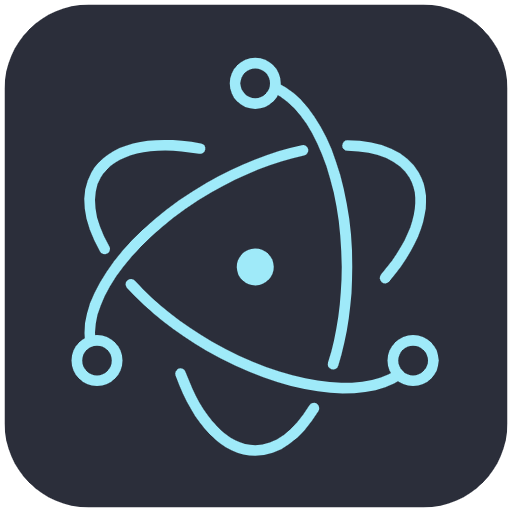
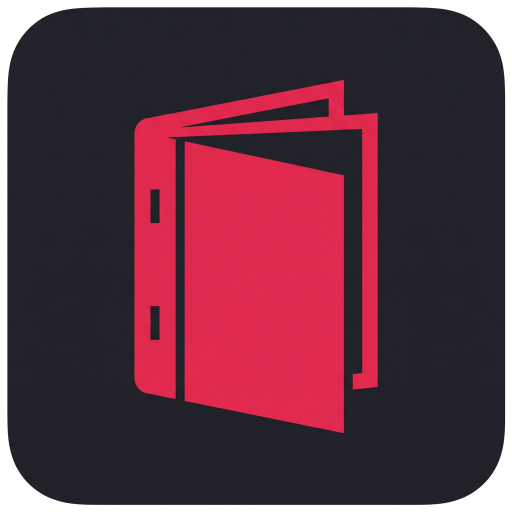
Rebrand Doujin Downloader to Kopibon
- Rename npm package, appId, desktopName, productName and executables
- Move the data directory to ~/.config/kopibon (KOPIBON_DATA_DIR env var)
- Update the ComicInfo Notes tag, update feed, docs and CI repo references
- Regenerate package-lock.json and THIRD-PARTY-NOTICES.md
- Replace the app icons with the Kopibon mark

diff --git a/src/main/index.ts b/src/main/index.ts
@@ -27,7 +27,7 @@ function createWindow(): void {
     minHeight: 600,
     show: false,
     autoHideMenuBar: true,
-    title: 'Doujin Downloader',
+    title: 'Kopibon',
     ...(process.platform === 'linux' ? { icon } : {}),
     webPreferences: {
       preload: join(__dirname, '../preload/index.js'),
@@ -87,7 +87,7 @@ function createWindow(): void {
 }
 
 app.whenReady().then(async () => {
-  electronApp.setAppUserModelId('com.en7ity.doujin-downloader')
+  electronApp.setAppUserModelId('com.en7ity.kopibon')
 
   // ─── Data directory ──────────────────────────────────────────────────
   //
@@ -98,7 +98,7 @@ app.whenReady().then(async () => {
   // .config) — giving every worker its own separate, empty database. Must run
   // before initDatabase() and before any worker is spawned.
 
-  process.env.DOUJIN_DATA_DIR = app.getPath('userData')
+  process.env.KOPIBON_DATA_DIR = app.getPath('userData')
 
   // ─── Logger ──────────────────────────────────────────────────────────
 

diff --git a/src/main/db/connection.ts b/src/main/db/connection.ts
@@ -11,12 +11,12 @@ let _dbPath: string | null = null
 function resolveDbDir(): string {
   if (_dbDir) return _dbDir
 
-  // The main process sets DOUJIN_DATA_DIR to app.getPath('userData') at
+  // The main process sets KOPIBON_DATA_DIR to app.getPath('userData') at
   // startup, and worker threads inherit it. This keeps every thread reading
   // the same database. The homedir fallback below would diverge from
   // Electron's userData on Windows (AppData vs .config) and silently give
   // each worker its own empty database, which is why it is last resort only.
-  const fromEnv = process.env.DOUJIN_DATA_DIR
+  const fromEnv = process.env.KOPIBON_DATA_DIR
   if (fromEnv) {
     _dbDir = fromEnv
     _dbPath = join(fromEnv, 'db.sqlite')
@@ -38,7 +38,7 @@ function resolveDbDir(): string {
   } catch {
     /* not in Electron context */
   }
-  _dbDir = join(homedir(), '.config', 'doujin-downloader')
+  _dbDir = join(homedir(), '.config', 'kopibon')
   _dbPath = join(_dbDir, 'db.sqlite')
   return _dbDir
 }

diff --git a/src/main/services/library-scanner.worker.ts b/src/main/services/library-scanner.worker.ts
@@ -68,10 +68,10 @@ interface PdfMetadata {
 const NHENTAI_ID_REGEX = /nhentai:(\d+)/i
 const FILENAME_ID_REGEX = /\[nhentai-(\d+)\]/
 const PROGRESS_INTERVAL = 1
-// The main process sets DOUJIN_DATA_DIR to app.getPath('userData') and workers
+// The main process sets KOPIBON_DATA_DIR to app.getPath('userData') and workers
 // inherit it; without it the homedir fallback would diverge from Electron's
 // userData on Windows (AppData vs .config).
-const DATA_DIR = process.env.DOUJIN_DATA_DIR || join(homedir(), '.config', 'doujin-downloader')
+const DATA_DIR = process.env.KOPIBON_DATA_DIR || join(homedir(), '.config', 'kopibon')
 const LOG_DIR = join(DATA_DIR, 'logs')
 
 // ─── State ───────────────────────────────────────────────────────────────────

diff --git a/src/main/services/download-manager.ts b/src/main/services/download-manager.ts
@@ -96,13 +96,13 @@ interface ActiveDownload {
  * on Windows, previously sending everything to C:\tmp).
  */
 function imageDownloadRoot(): string {
-  const base = app?.getPath ? app.getPath('userData') : join(process.cwd(), '.doujin-downloader')
+  const base = app?.getPath ? app.getPath('userData') : join(process.cwd(), '.kopibon')
   return join(base, 'download-tmp')
 }
 
 /** Persistent thumbnail cache — must outlive reboots, so not in os.tmpdir(). */
 function thumbnailRoot(): string {
-  const base = app?.getPath ? app.getPath('userData') : join(process.cwd(), '.doujin-downloader')
+  const base = app?.getPath ? app.getPath('userData') : join(process.cwd(), '.kopibon')
   return join(base, 'thumbnails')
 }
 

diff --git a/src/renderer/index.html b/src/renderer/index.html
@@ -2,7 +2,7 @@
 <html>
   <head>
     <meta charset="UTF-8" />
-    <title>Doujin Downloader</title>
+    <title>Kopibon</title>
     <meta
       http-equiv="Content-Security-Policy"
       content="default-src 'self'; script-src 'self'; style-src 'self' 'unsafe-inline'; img-src 'self' data: https:; connect-src 'self' https://nhentai.net https://*.nhentai.net ws://localhost:* http://localhost:*; font-src 'self' data:;"

diff --git a/src/main/services/logger.ts b/src/main/services/logger.ts
@@ -1,5 +1,5 @@
 /**
- * Core logger for the Doujin Downloader app.
+ * Core logger for the Kopibon app.
  *
  * Design (§1):
  * - Levels: error, warn, info, debug. Configurable, default 'info'.

diff --git a/resources/metadata-templates/README.md b/resources/metadata-templates/README.md
@@ -18,8 +18,8 @@ There are two copies:
 - **The shipped defaults**: next to the application, never written to.
 - **Your copy**: under the app's user data directory, in `metadata-templates/`.
   This is the one the app reads and the one to edit.
-  - Linux: `~/.config/doujin-downloader/metadata-templates/`
-  - Windows: `%APPDATA%\doujin-downloader\metadata-templates\`
+  - Linux: `~/.config/kopibon/metadata-templates/`
+  - Windows: `%APPDATA%\kopibon\metadata-templates\`
 
 Your copy is created from the defaults the first time the app starts, and is
 never overwritten afterwards. **To restore a default, delete your copy of that

diff --git a/docs/reference/metadata-formats.md b/docs/reference/metadata-formats.md
@@ -27,7 +27,7 @@ notes:
 | `Tags` | nhentai `tag`-type tags | Separate from Genre |
 | `Characters` | Characters | |
 | `Web` | nhentai gallery URL | `https://nhentai.net/g/{id}` |
-| `Notes` | "Tagged by Doujin Downloader" | Carries the gallery ID |
+| `Notes` | "Tagged by Kopibon" | Carries the gallery ID |
 | `PageCount` | Pages in the file | Derived from the archive, never trusted from the caller |
 | `LanguageISO` | Resolved language | ISO 639-1 code |
 | `Year` / `Month` / `Day` | Release date | All three written together, or none |

diff --git a/docs/features/metadata-pipeline.md b/docs/features/metadata-pipeline.md
@@ -126,8 +126,8 @@ or `<` cannot break the file.
 ## Editing the templates
 
 The templates are shipped to your user data directory on first start
-(`~/.config/doujin-downloader/metadata-templates/` on Linux,
-`%APPDATA%\doujin-downloader\metadata-templates\` on Windows). Edits take
+(`~/.config/kopibon/metadata-templates/` on Linux,
+`%APPDATA%\kopibon\metadata-templates\` on Windows). Edits take
 effect on the next file written. No restart needed. To restore the default,
 delete your copy of the file.
 

diff --git a/docs/getting-started/installation.md b/docs/getting-started/installation.md
@@ -1,6 +1,6 @@
 # Installation
 
-Doujin Downloader is an Electron desktop app for Linux and Windows. It is not
+Kopibon is an Electron desktop app for Linux and Windows. It is not
 distributed as a compiled download; you build it from source with `npm`, which
 takes a couple of minutes and produces a native installer for your platform.
 This page covers the requirements, how to install and run it, how to build the

diff --git a/THIRD-PARTY-NOTICES.md b/THIRD-PARTY-NOTICES.md
@@ -1,6 +1,6 @@
 # Third-party notices
 
-Doujin Downloader is licensed under GPL-3.0-or-later (see `LICENSE`). It
+Kopibon is licensed under GPL-3.0-or-later (see `LICENSE`). It
 bundles the third-party packages listed here, each under its own licence.
 
 Generated by `node tools/generate-notices.mjs`. Do not edit by hand.

diff --git a/ci/runner/README.md b/ci/runner/README.md
@@ -53,8 +53,8 @@ registry is involved anywhere.
 
 ```bash
 ssh <your-ubuntu-host>
-git clone git@github.com:eN7ityy/Doujinshi-Downloader.git
-cd Doujinshi-Downloader
+git clone git@github.com:eN7ityy/Kopibon.git
+cd Kopibon
 docker build -t doujin-ci-runner:1 ci/runner
 ```
 
